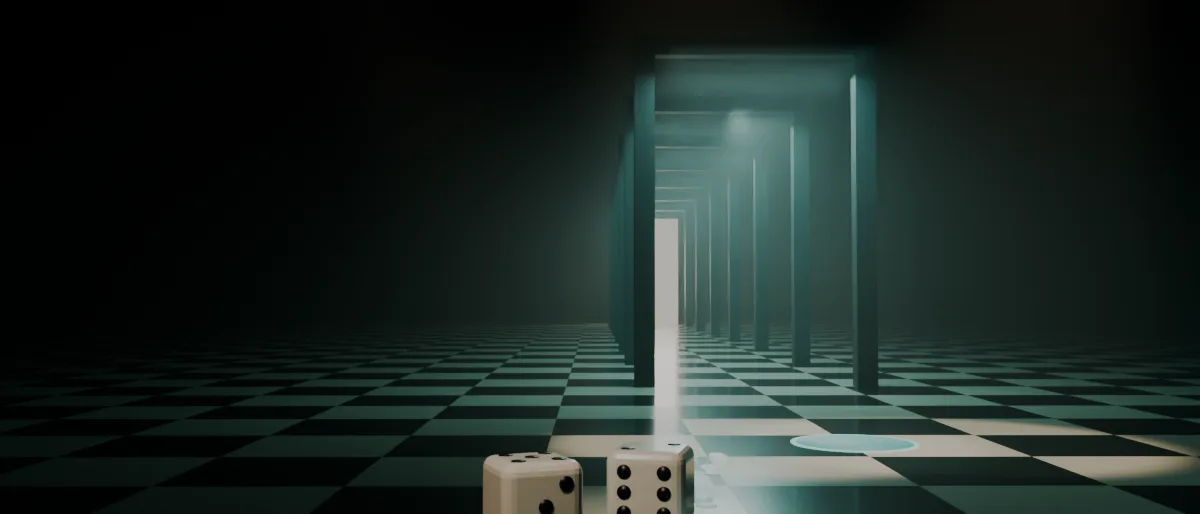
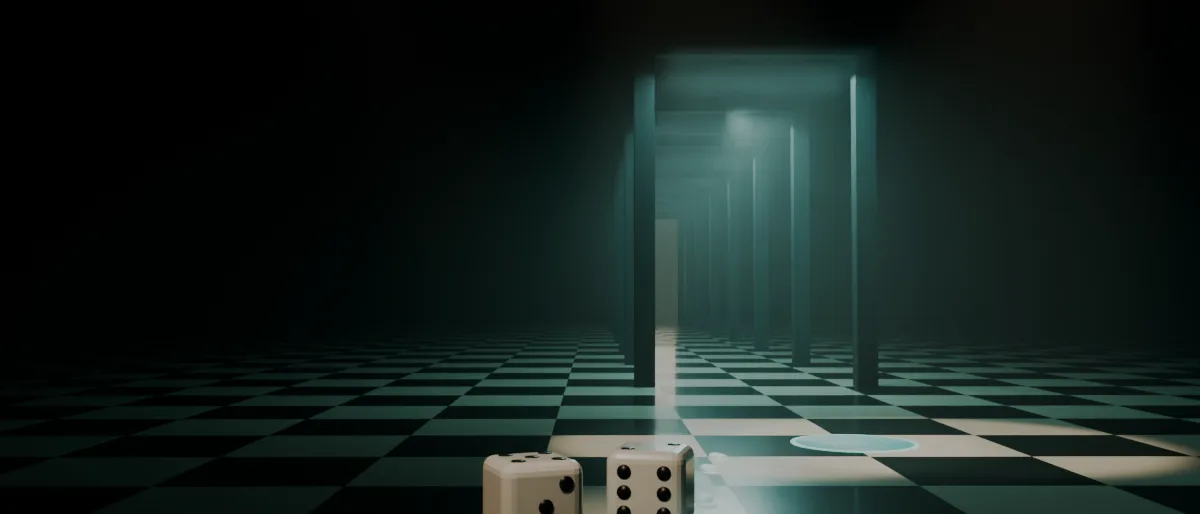
The Dance card: dim the exit at the end of the corridor
Exit panel and its area light turned well down, and the far door lights
fall off faster, so the doorway no longer pulls the eye from the pieces.

Changed region(s): [[0.4317, 0.3113, 0.6475, 0.8716]]

diff --git a/tools/dance/render_layers.py b/tools/dance/render_layers.py
@@ -225,15 +225,15 @@ for i in range(7):
 for i in range(7):
     y = 6.0 + i * 3.6
     ld = bpy.data.lights.new(f'door{i}', 'AREA')
-    ld.energy = 220 * (0.82 ** i)
+    ld.energy = 220 * (0.68 ** i)
     ld.color = lin('#9fe6dd')[:3]
     ld.size = 2.0
     o = link(bpy.data.objects.new(f'door{i}', ld))
     o.location = (0.55, y - 0.4, 3.4)
 # The exit glows softly through the haze rather than burning to white.
-exit_light = mat('exit', '#e8dcc6', 0.5, emit='#f3dfbf', strength=1.6)
+exit_light = mat('exit', '#9a9283', 0.5, emit='#b8a98e', strength=0.12)
 ld = bpy.data.lights.new('exit-glow', 'AREA')
-ld.energy = 260
+ld.energy = 25
 ld.color = lin('#f3dfbf')[:3]
 ld.size = 2.0
 eg = link(bpy.data.objects.new('exit-glow', ld))
